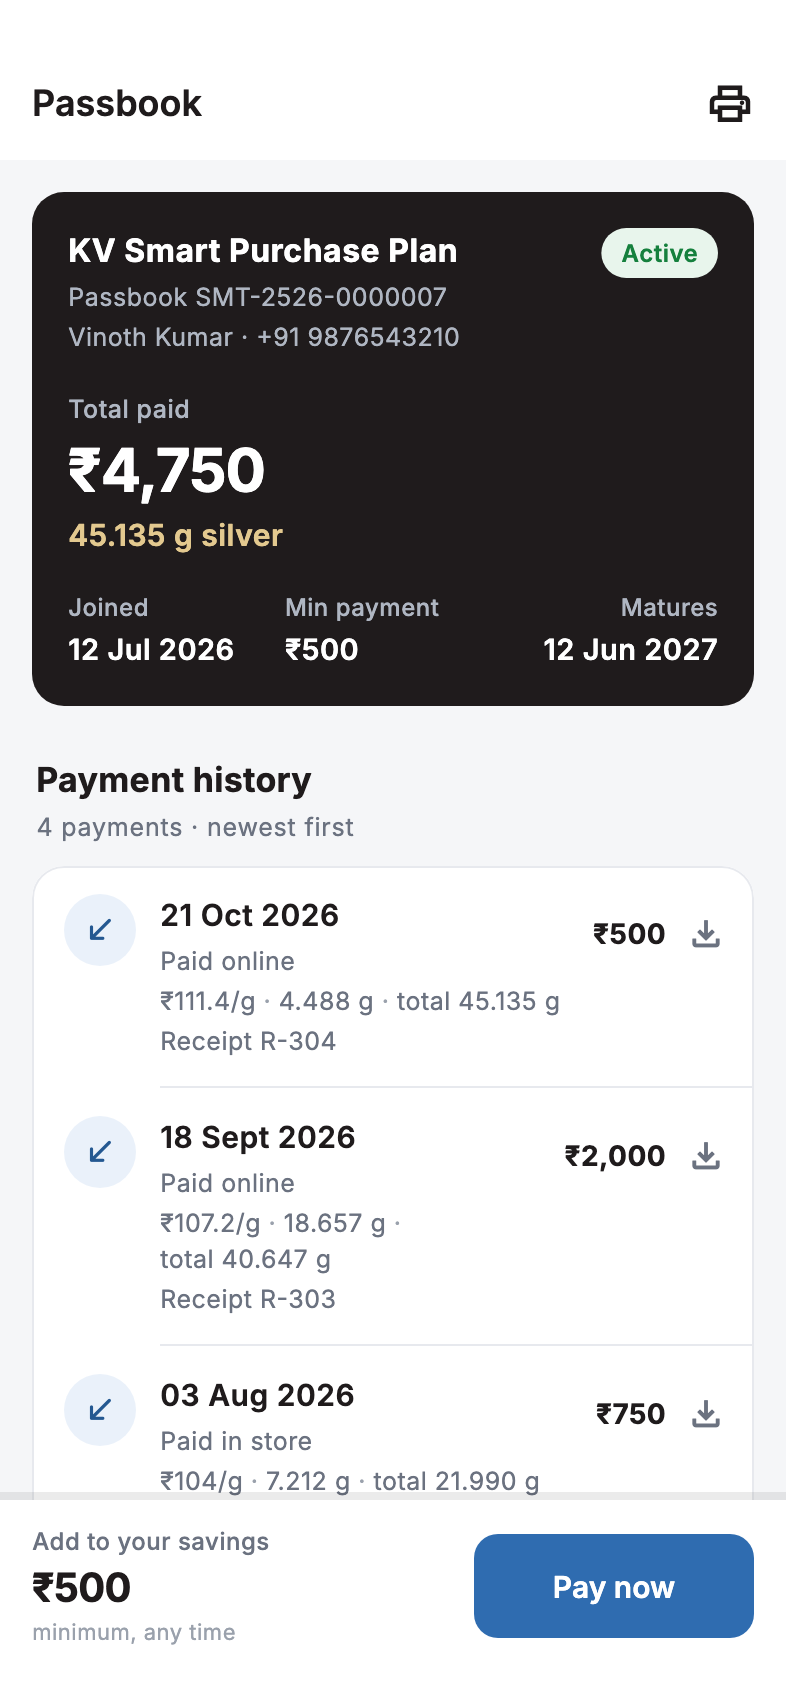
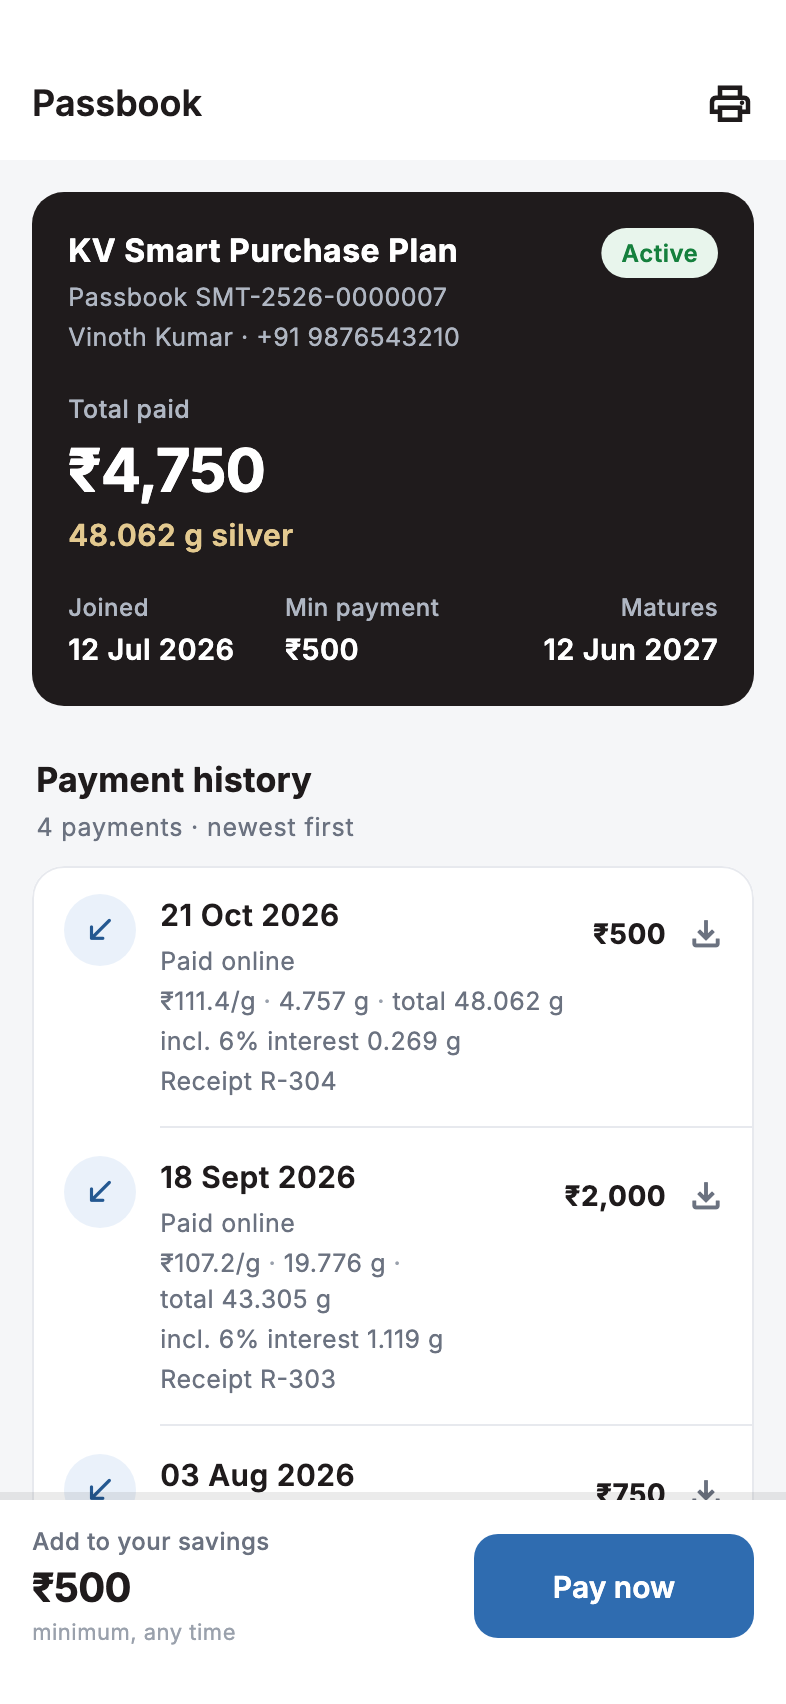
KV Smart interest in terms, plan page and passbook

diff --git a/lib/features/savings/presentation/plan_detail_screen.dart b/lib/features/savings/presentation/plan_detail_screen.dart
@@ -176,6 +176,33 @@ class _PlanDetailScreenState extends ConsumerState<PlanDetailScreen> {
               ),
             ]),
           ),
+          if (plan.monthlyInterestPercent.isNotEmpty) ...[
+            const SizedBox(height: Kv.gap),
+            const _Title('Interest by month'),
+            KvCard(
+              child: Column(crossAxisAlignment: CrossAxisAlignment.start, children: [
+                Wrap(spacing: 6, runSpacing: 6, children: [
+                  for (var i = 0; i < plan.monthlyInterestPercent.length; i++)
+                    Container(
+                      width: 52,
+                      padding: const EdgeInsets.symmetric(vertical: 6),
+                      decoration: BoxDecoration(color: Kv.bg, borderRadius: Kv.smallRadius),
+                      child: Column(children: [
+                        Text('M${i + 1}', style: const TextStyle(fontSize: 11, color: Kv.muted)),
+                        Text('${_num(plan.monthlyInterestPercent[i])}%',
+                            style: const TextStyle(fontWeight: FontWeight.w700, color: Kv.success)),
+                      ]),
+                    ),
+                ]),
+                const SizedBox(height: 10),
+                const Text(
+                  'Each payment earns the % of the month you pay in, as extra silver. '
+                  'Interest is paid when you complete the plan; it is forfeited if you close early.',
+                  style: TextStyle(fontSize: 13, color: Kv.muted, height: 1.4),
+                ),
+              ]),
+            ),
+          ],
         ] else ...[
           const _Title('Monthly amount'),
           Wrap(spacing: 8, runSpacing: 8, children: [

diff --git a/test_screens/savings_fixtures.dart b/test_screens/savings_fixtures.dart
@@ -37,11 +37,14 @@ SavingsEnrollment smartScheme() => SavingsEnrollment.fromJson({
       'planName': 'KV Smart Purchase Plan', 'monthlyAmount': 500, 'duration': 11, 'startDate': '2026-07-12',
       'status': 'Active', 'totalPaid': 4750, 'bonusAmount': 0, 'maturityDate': '2027-06-12T00:00:00Z',
       'payments': [
-        for (final (i, (amt, date, rate)) in const [
-          (1500, '2026-07-12', 101.5), (750, '2026-08-03', 104.0), (2000, '2026-09-18', 107.2), (500, '2026-10-21', 111.4),
+        // (amount, date, rate, interest %) — scheme months 1, 1, 3, 4 from the 12 Jul start.
+        for (final (i, (amt, date, rate, pct)) in const [
+          (1500, '2026-07-12', 101.5, 7), (750, '2026-08-03', 104.0, 7), (2000, '2026-09-18', 107.2, 6), (500, '2026-10-21', 111.4, 6),
         ].indexed)
           {'id': 'R-30${i + 1}', 'month': 0, 'amount': amt, 'paidAt': '${date}T09:00:00Z', 'materialRate': rate,
-            'materialWeight': double.parse((amt / rate).toStringAsFixed(3)), 'method': i == 1 ? 'CASH' : 'ONLINE'},
+            'materialWeight': double.parse((amt / rate).toStringAsFixed(3)), 'method': i == 1 ? 'CASH' : 'ONLINE',
+            'devidentAmount': amt * pct / 100, 'devidentMaterialRate': rate,
+            'devidentMaterialWeight': double.parse((amt * pct / 100 / rate).toStringAsFixed(3))},
       ],
     });
 

diff --git a/lib/features/savings/presentation/passbook/scheme_details_view.dart b/lib/features/savings/presentation/passbook/scheme_details_view.dart
@@ -172,6 +172,15 @@ class _SchemeDetailsViewState extends State<SchemeDetailsView> {
             for (final (i, r) in rows.indexed) ...[if (i > 0) const Divider(indent: 64), r],
           ]),
         ),
+      if (flexible && s.installments.any((i) => i.payment.amount > 0 && i.payment.devidentAmount > 0))
+        const Padding(
+          padding: EdgeInsets.fromLTRB(4, 10, 4, 0),
+          child: Text(
+            'Totals include the monthly interest. Interest is paid when the plan completes its 11 months '
+            'and is forfeited if it is closed early.',
+            style: TextStyle(fontSize: 12.5, color: Kv.muted, height: 1.4),
+          ),
+        ),
     ]);
 
     // The receipt is painted underneath the (opaque) content so it can be rasterised unseen.
@@ -220,6 +229,8 @@ class _SchemeDetailsViewState extends State<SchemeDetailsView> {
           if (hasGrams) _grams(inst.grams),
           if (hasGrams && widget.flexible && runningGrams != null) 'total ${_grams(runningGrams)}',
         ],
+        if (!isBonus && p.devidentAmount > 0 && p.amount > 0)
+          ['incl. ${(p.devidentAmount / p.amount * 100).round()}% interest ${_grams(p.devidentMaterialWeight)}'],
         [if (p.id != null) 'Receipt ${p.id}'],
       ],
       trailing: Row(mainAxisSize: MainAxisSize.min, children: [

diff --git a/lib/features/info/presentation/terms_screen.dart b/lib/features/info/presentation/terms_screen.dart
@@ -92,6 +92,8 @@ class TermsScreen extends StatelessWidget {
               'applicable bonus installment.'),
           LegalText("KV Silver Zone reserves the right to modify scheme terms with 30 days' notice. "
               'Premature withdrawal may result in forfeiture of bonus benefits.'),
+          LegalText("KV Smart Purchase Plan (flexible): every payment earns interest as extra silver. The rate depends on the scheme month the payment is made in, counted from the enrolment date: month 1: 7%, month 2: 7%, month 3: 6%, month 4: 6%, month 5: 5%, month 6: 4%, month 7: 4%, month 8: 3%, month 9: 3%, month 10: 2%, month 11: 1%."),
+          LegalText("The interest is calculated on the silver that payment buys at that day's rate. For example, ₹1,000 paid in month 1 at ₹200/g buys 5 g and earns 7% = 0.35 g. Interest is shown in the passbook as it accrues and is paid out only when the scheme completes its 11 months; it is forfeited if the scheme is closed before then."),
         ]),
         const LegalSection(title: '7. Intellectual Property', children: [
           LegalText('All content on this website — including text, images, logos, and product designs — '

diff --git a/lib/features/savings/data/savings_models.dart b/lib/features/savings/data/savings_models.dart
@@ -49,6 +49,7 @@ class SchemePlan {
     required this.monthlyAmounts,
     this.minPaymentAmount,
     this.hamper,
+    this.monthlyInterestPercent = const [],
   });
 
   final String id;
@@ -67,6 +68,9 @@ class SchemePlan {
   final double? minPaymentAmount;
   final SchemeHamper? hamper;
 
+  /// FLEXIBLE plans: interest % (extra metal) for a payment made in scheme month 1, 2, …
+  final List<double> monthlyInterestPercent;
+
   factory SchemePlan.fromJson(Map<String, dynamic> j) => SchemePlan(
         id: (j['_id'] ?? j['id'] ?? '').toString(),
         type: (j['type'] ?? '').toString(),
@@ -81,6 +85,9 @@ class SchemePlan {
             : const [],
         minPaymentAmount: _dn(j['minPaymentAmount']),
         hamper: j['hamper'] is Map ? SchemeHamper.fromJson(_m(j['hamper'])) : null,
+        monthlyInterestPercent: j['monthlyInterestPercent'] is List
+            ? (j['monthlyInterestPercent'] as List).map(_d).toList()
+            : const [],
       );
 }
 

diff --git a/test_screens/fixtures.dart b/test_screens/fixtures.dart
@@ -78,6 +78,7 @@ SchemePlan samplePlan(int i) => SchemePlan.fromJson({
       'paymentMode': i == 2 ? 'FLEXIBLE' : 'FIXED',
       'monthlyAmounts': [1000, 2000, 5000],
       'minPaymentAmount': 500,
+      if (i % 3 == 2) 'monthlyInterestPercent': [7, 7, 6, 6, 5, 4, 4, 3, 3, 2, 1],
     });
 
 SavingsEnrollment sampleScheme() => SavingsEnrollment.fromJson({
